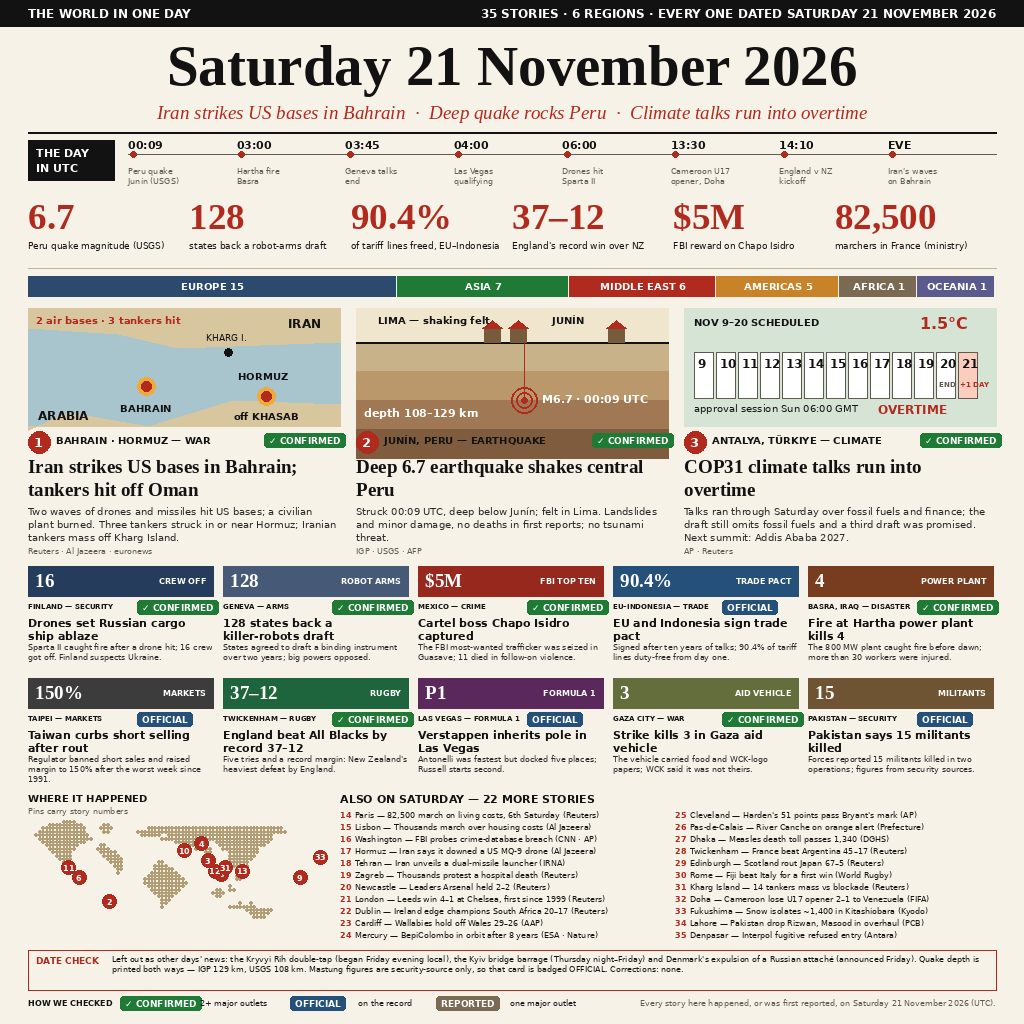
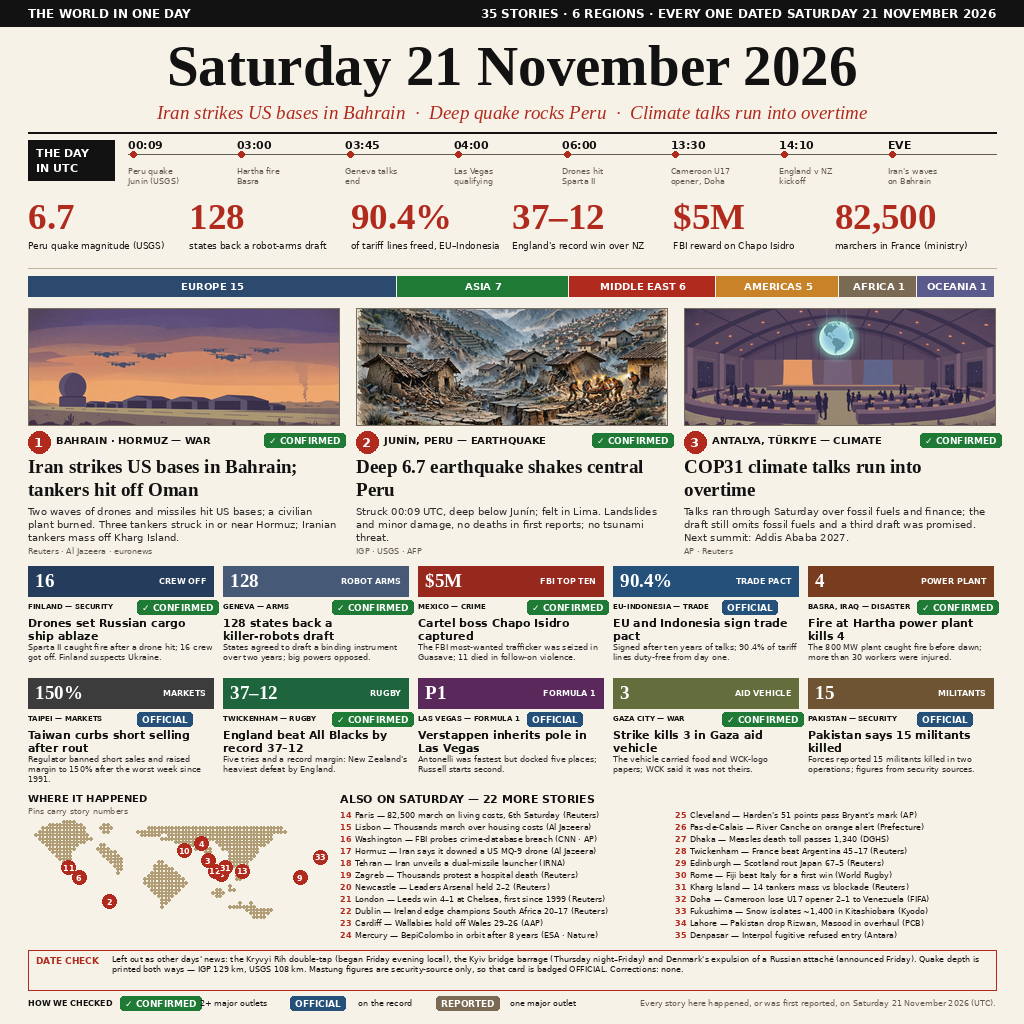
Lead covers back to detailed illustrations in the winners' layout

Changed region(s): [[0.0, 0.2812, 1.0, 0.4688]]

diff --git a/compose.py b/compose.py
@@ -93,19 +93,19 @@ TIMELINE = [("00:09", "Peru quake\nJunín (USGS)"), ("03:00", "Hartha fire\nBasr
             ("14:10", "England v NZ\nkickoff"), ("EVE", "Iran's waves\non Bahrain")]
 
 LEADS = [
-    dict(n=1, art="gulf", kicker="BAHRAIN · HORMUZ — WAR", badge="CONFIRMED",
+    dict(n=1, art="assets/illo-gulf.png", kicker="BAHRAIN · HORMUZ — WAR", badge="CONFIRMED",
          head="Iran strikes US bases in Bahrain; tankers hit off Oman",
          body="Two waves of drones and missiles hit US bases; a civilian "
               "plant burned. Three tankers struck in or near Hormuz; "
               "Iranian tankers mass off Kharg Island.",
          src="Reuters · Al Jazeera · euronews"),
-    dict(n=2, art="quake", kicker="JUNÍN, PERU — EARTHQUAKE", badge="CONFIRMED",
+    dict(n=2, art="assets/illo-peru.png", kicker="JUNÍN, PERU — EARTHQUAKE", badge="CONFIRMED",
          head="Deep 6.7 earthquake shakes central Peru",
          body="Struck 00:09 UTC, deep below Junín; felt in Lima. "
               "Landslides and minor damage, no deaths in first reports; "
               "no tsunami threat.",
          src="IGP · USGS · AFP"),
-    dict(n=3, art="cop", kicker="ANTALYA, TÜRKIYE — CLIMATE", badge="CONFIRMED",
+    dict(n=3, art="assets/illo-cop31.png", kicker="ANTALYA, TÜRKIYE — CLIMATE", badge="CONFIRMED",
          head="COP31 climate talks run into overtime",
          body="Talks ran through Saturday over fossil fuels and finance; "
               "the draft still omits fossil fuels and a third draft was "
@@ -247,6 +247,19 @@ def art_cop(d, x, y, w, h):
 
 ART = {"gulf": art_gulf, "quake": art_quake, "cop": art_cop}
 
+
+def cover(img, path, x, y, w, h):
+    """Paste a detailed cover illustration, centre-cropped to fill."""
+    art = Image.open(path).convert("RGB")
+    scale = max(w / art.width, h / art.height)
+    art = art.resize((round(art.width * scale), round(art.height * scale)),
+                     Image.LANCZOS)
+    left = (art.width - w) // 2
+    top = (art.height - h) // 2
+    img.paste(art.crop((left, top, left + w, top + h)), (x, y))
+    d = ImageDraw.Draw(img)
+    d.rectangle([x, y, x + w - 1, y + h - 1], outline=(120, 110, 95))
+
 # ------------------------------------------------------------- pin map
 
 MAP_ROWS = [
@@ -370,7 +383,10 @@ def build():
     ly, lw = 308, (CW - 32) // 3
     for i, lead in enumerate(LEADS):
         cx = MARGIN + i * (lw + 16)
-        ART[lead["art"]](d, cx, ly, lw, 118)
+        if lead["art"].endswith(".png"):
+            cover(img, lead["art"], cx, ly, lw, 118)
+        else:
+            ART[lead["art"]](d, cx, ly, lw, 118)
         ky = ly + 126
         numdot(d, cx, ky - 3, lead["n"])
         d.text((cx + 28, ky), lead["kicker"], font=F(SANS_B, 10), fill=INK)
